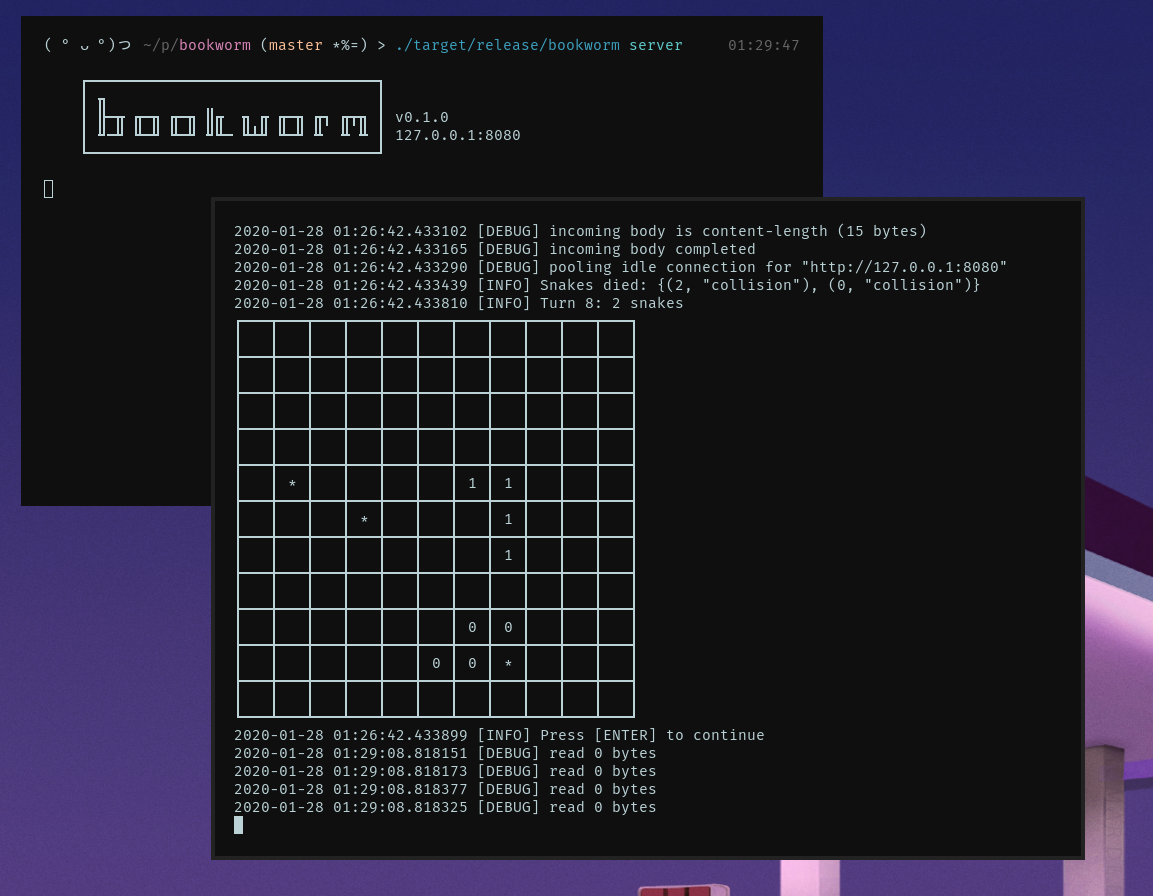
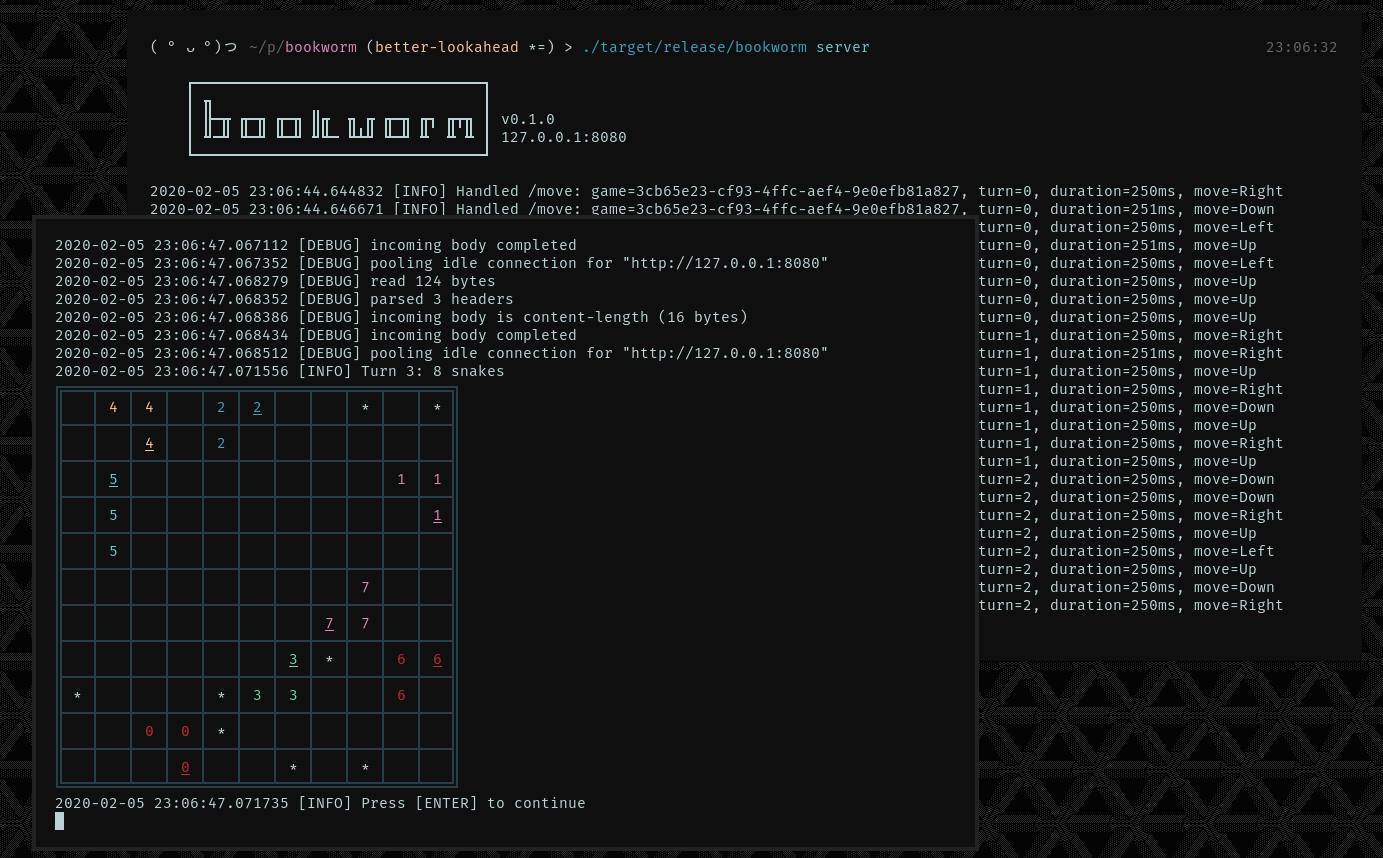
Revise heuristic rules and fix head-to-head collision tendency

diff --git a/src/brain.rs b/src/brain.rs
@@ -8,7 +8,7 @@ use crate::api::{ApiDirection, ApiGameState, ALL_DIRS};
 use crate::game::{Board, UnitAbs};
 use crate::util::cartesian_product;
 
-const LOOKAHEAD_BUDGET: Duration = Duration::from_millis(250);
+const IGNORE_MOVES_DIST: UnitAbs = 5;
 
 type Score = f32;
 
@@ -43,21 +43,36 @@ fn heuristic(board: &Board, snake_index: usize) -> Score {
     let territories = board.get_territories();
     let snake = board.snakes.get(snake_index).unwrap();
     let territory = territories.get(snake_index).unwrap();
-    //todo: tune heuristics
     let h_control = territory.area as Score / board.area() as Score;
-    let h_food = snake.health as Score / 100.0;
-    let h_head_to_head = board
-        .snakes
-        .iter()
-        .enumerate()
-        .filter(|(other_index, other)| *other_index == snake_index || snake.size() > other.size())
-        .count() as Score
-        / board.snakes.len() as Score;
+    let h_food = {
+        let food_density = if territory.area == 0 {
+            0.0
+        } else {
+            territory.num_food as Score / territory.area as Score
+        };
+        let turns_until_starve = snake.health;
+        if territory.nearest_food.map(|nearest| nearest <= turns_until_starve as usize).unwrap_or(false) {
+            1.0
+        } else {
+            let expected_food = turns_until_starve as Score * food_density;
+            match expected_food.partial_cmp(&1.0).unwrap() {
+                Ordering::Less => expected_food,
+                _ => 1.0,
+            }
+        }
+    };
+    let h_head_to_head = board.snakes.iter().enumerate()
+        .filter(|(other_index, other)| {
+            *other_index == snake_index || //dont need to worry about self
+            snake.size() > other.size() || //dont need to worry about small snakes
+            (snake.head() - other.head()).manhattan_dist() > 2 //dont need to worry about distant snakes
+        })
+        .count() as Score / board.snakes.len() as Score;
     h_food * h_head_to_head * h_control
 }
 
 //search the turn tree for a good and likely result, returning the first move to get there
-pub fn get_decision(game_state: &ApiGameState) -> ApiDirection {
+pub fn get_decision(game_state: &ApiGameState, budget: Duration) -> ApiDirection {
     let start = SystemTime::now();
 
     let root_turn_board = Board::from_api(game_state);
@@ -72,7 +87,7 @@ pub fn get_decision(game_state: &ApiGameState) -> ApiDirection {
 
     //live ur best life
     while let Some(leader) = frontier.pop() {
-        if SystemTime::now().duration_since(start).unwrap() >= LOOKAHEAD_BUDGET {
+        if SystemTime::now().duration_since(start).unwrap() >= budget {
             return leader.root_dir.unwrap_or(default_move);
         }
 
@@ -80,31 +95,46 @@ pub fn get_decision(game_state: &ApiGameState) -> ApiDirection {
         let worst_outcomes: Mutex<[Option<FrontierBoard>; ALL_DIRS.len()]> = Mutex::new([None, None, None, None]);
 
         //todo: this can get pretty extreme for an 8 player game -- prune some moves which don't matter much?
-        let snake_moves = leader.board.enumerate_snake_moves();
+        let mut snake_moves = leader.board.enumerate_snake_moves();
+        let you_head = leader.board.you().head();
+        for (other_index, dirs) in snake_moves.iter_mut().enumerate().skip(1) {
+            let other = leader.board.snakes.get(other_index).unwrap();
+            if (other.head() - you_head).manhattan_dist() > IGNORE_MOVES_DIST {
+                let default_move = other.get_default_move();
+                if dirs.contains(&default_move) {
+                    dirs.resize(1, default_move);
+                } else {
+                    dirs.truncate(1);
+                }
+            }
+        }
 
         //YOU GET A CORE, YOU GET A CORE, YOU GET A CORE! EVERYBODY GETS A CORE!
         cartesian_product(&snake_moves).par_iter().for_each(|moves| {
             let mut next_board = leader.board.clone();
             let dead_snake_indices = next_board.advance(false, moves);
-            //we are maintaining index 0 as "you". if we die it's not worth exploring further
-            if !dead_snake_indices.contains_key(&0) {
-                let dir_index = moves.get(0).unwrap().as_index();
-                let next_h_score = heuristic(&next_board, 0);
 
-                let is_new_worst = worst_outcomes.lock().unwrap()
-                    .get(dir_index)
-                    .unwrap()
-                    .as_ref()
-                    .map(|worst_outcome| next_h_score < worst_outcome.h_score)
-                    .unwrap_or(true);
+            //we are maintaining index 0 as "you"
+            let dir_index = moves.get(0).unwrap().as_index();
+            let next_h_score = if dead_snake_indices.contains_key(&0) {
+                std::f32::MIN
+            } else {
+                heuristic(&next_board, 0)
+            };
 
-                if is_new_worst {
-                    worst_outcomes.lock().unwrap()[dir_index] = Some(FrontierBoard {
-                        board: next_board,
-                        root_dir: Some(leader.root_dir.unwrap_or_else(|| *moves.get(0).unwrap())),
-                        h_score: next_h_score,
-                    });
-                }
+            let is_new_worst = worst_outcomes.lock().unwrap()
+                .get(dir_index)
+                .unwrap()
+                .as_ref()
+                .map(|worst_outcome| next_h_score < worst_outcome.h_score)
+                .unwrap_or(true);
+
+            if is_new_worst {
+                worst_outcomes.lock().unwrap()[dir_index] = Some(FrontierBoard {
+                    board: next_board,
+                    root_dir: Some(leader.root_dir.unwrap_or_else(|| *moves.get(0).unwrap())),
+                    h_score: next_h_score * 0.25 + leader.h_score * 0.75,
+                });
             }
         });
 
@@ -128,7 +158,7 @@ mod tests {
 
     macro_rules! decide {
         ($s:expr) => {
-            get_decision(&ApiGameState::parse_basic($s))
+            get_decision(&ApiGameState::parse_basic($s), Duration::from_millis(250))
         };
     }
 

diff --git a/src/game/board.rs b/src/game/board.rs
@@ -29,7 +29,8 @@ pub struct Board {
 #[derive(Copy, Clone, Debug)]
 pub struct Territory {
     pub area: UnitAbs,
-    pub food: usize,
+    pub num_food: usize,
+    pub nearest_food: Option<UnitAbs>,
 }
 
 #[derive(Eq)]
@@ -136,19 +137,6 @@ impl Board {
         }
     }
 
-    //note -- hash key elements must are ordered such that key.0 < key.1
-    //todo: this actually slowed down evaluate_board when used for pruning... can it be useful elsewhere?
-    pub fn get_snake_dist_matrix(&self) -> HashMap<(usize, usize), UnitAbs> {
-        let mut results = HashMap::new();
-        for (a, snake_a) in self.snakes.iter().enumerate() {
-            for (b, snake_b) in self.snakes.iter().enumerate().skip(a + 1) {
-                let dist = (snake_a.head() - snake_b.head()).manhattan_dist();
-                results.insert((a, b), dist);
-            }
-        }
-        results
-    }
-
     //gets the set of moves from this point which are not obstructed or out of bounds
     pub fn get_free_moves(&self, from: Coord, n_turns: usize) -> Vec<ApiDirection> {
         ALL_DIRS.iter().cloned().filter(|dir| {
@@ -168,7 +156,7 @@ impl Board {
         }).collect()
     }
 
-    //find out where each snake can move to next. if a snake is trapped, assume Up
+    //find out where each snake can move to next. since snakes MUST move, if a snake is trapped, assume Up
     pub fn enumerate_snake_moves(&self) -> Vec<Vec<ApiDirection>> {
         self.snakes.iter().map(|snake| {
             let mut moves = self.get_free_moves(snake.head(), 1);
@@ -246,9 +234,16 @@ impl Board {
             turn += 1;
         }
 
-        let mut territories = vec![Territory {area: 0, food: 0}; self.snakes.len()];
-        for (_, owner) in ownerships.iter() {
-            territories.get_mut(*owner).unwrap().area += 1;
+        let mut territories = vec![Territory {area: 0, nearest_food: None, num_food: 0}; self.snakes.len()];
+        for (&coord, &owner) in ownerships.iter() {
+            if self.find_food(coord).is_some() {
+                let food_dist = (self.snakes.get(owner).unwrap().head() - coord).manhattan_dist();
+                if territories.get(owner).unwrap().nearest_food.map(|f| f < food_dist).unwrap_or(true) {
+                    territories.get_mut(owner).unwrap().nearest_food = Some(food_dist);
+                }
+                territories.get_mut(owner).unwrap().num_food += 1;
+            }
+            territories.get_mut(owner).unwrap().area += 1;
         }
         territories
     }

diff --git a/src/server.rs b/src/server.rs
@@ -1,13 +1,14 @@
 use std::convert::Infallible;
 use std::net::{SocketAddr, IpAddr};
-use std::time::{SystemTime};
+use std::time::{SystemTime, Duration};
 use log::*;
 use hyper::{Body, Request, Response, Server, Method, StatusCode, body, service::{make_service_fn, service_fn}};
 use crate::api::{ApiSnakeConfig, ApiMove};
 use crate::brain::get_decision;
 
-pub async fn start_server(ip: IpAddr, port: u16) {
+pub async fn start_server(ip: IpAddr, port: u16, budget: u64) {
     let addr = SocketAddr::new(ip, port);
+    let budget = Duration::from_millis(budget);
     println!("
     ┌────────────────────────────────┐
     │ ╖                              │
@@ -20,9 +21,9 @@ pub async fn start_server(ip: IpAddr, port: u16) {
     );
 
     let server = Server::bind(&addr).serve(make_service_fn(|_socket|
-        async {
+        async move {
             Ok::<_, Infallible>(service_fn(move |req: Request<Body>|
-                async {
+                async move {
                     Ok::<_, Infallible>(match (req.method(), req.uri().path()) {
                         (&Method::GET, "/") => {
                             Response::new(Body::from("What'sssss up?"))
@@ -48,7 +49,7 @@ pub async fn start_server(ip: IpAddr, port: u16) {
                             match serde_json::from_slice(&bytes) {
                                 Ok(game_state) => {
                                     let start = SystemTime::now();
-                                    let decision = get_decision(&game_state);
+                                    let decision = get_decision(&game_state, budget);
                                     let json = serde_json::to_string(&ApiMove {decision}).unwrap();
                                     let duration = SystemTime::now().duration_since(start).unwrap().as_millis();
                                     info!(

diff --git a/src/main.rs b/src/main.rs
@@ -47,6 +47,12 @@ async fn main() {
                 .takes_value(true)
                 .default_value("127.0.0.1")
             )
+            .arg(Arg::with_name("budget")
+                .short("b")
+                .help("Time budget for responding to /move requests, in milliseconds")
+                .takes_value(true)
+                .default_value("250")
+            )
         )
         .subcommand(SubCommand::with_name("host")
             .about("Host a match between snakes.")
@@ -91,7 +97,8 @@ async fn main() {
         ("server", Some(args)) => {
             server::start_server(
                 args.value_of("ip").unwrap().parse().expect("IP must be an IPV6 or IPV4 format"),
-                args.value_of("port").unwrap().parse().expect("Port must be numeric")
+                args.value_of("port").unwrap().parse().expect("Port must be numeric"),
+                args.value_of("budget").unwrap().parse().expect("Time budget must be numeric")
             ).await;
         }
         ("host", Some(args)) => {

diff --git a/src/benchmark.rs b/src/benchmark.rs
@@ -1,5 +1,5 @@
 use std::str;
-use std::time::{SystemTime};
+use std::time::{SystemTime, Duration};
 use log::*;
 use crate::game::{Path, Coord, Offset, Board};
 use crate::brain::get_decision;
@@ -91,7 +91,7 @@ fn decision() {
     ");
 
     timed!("get_decision_early_game", 3, |_| {
-        get_decision(&game_state);
+        get_decision(&game_state, Duration::from_millis(250));
     });
 
     let game_state = ApiGameState::parse_basic("
@@ -109,7 +109,7 @@ fn decision() {
     ");
 
     timed!("get_decision_late_game", 3, |_| {
-        get_decision(&game_state);
+        get_decision(&game_state, Duration::from_millis(250));
     });
 
     //this is a particularly bad case for choosing priority snakes
@@ -128,7 +128,7 @@ fn decision() {
     ");
 
     timed!("get_decision_tricky", {
-        get_decision(&game_state);
+        get_decision(&game_state, Duration::from_millis(250));
     });
 }
 
